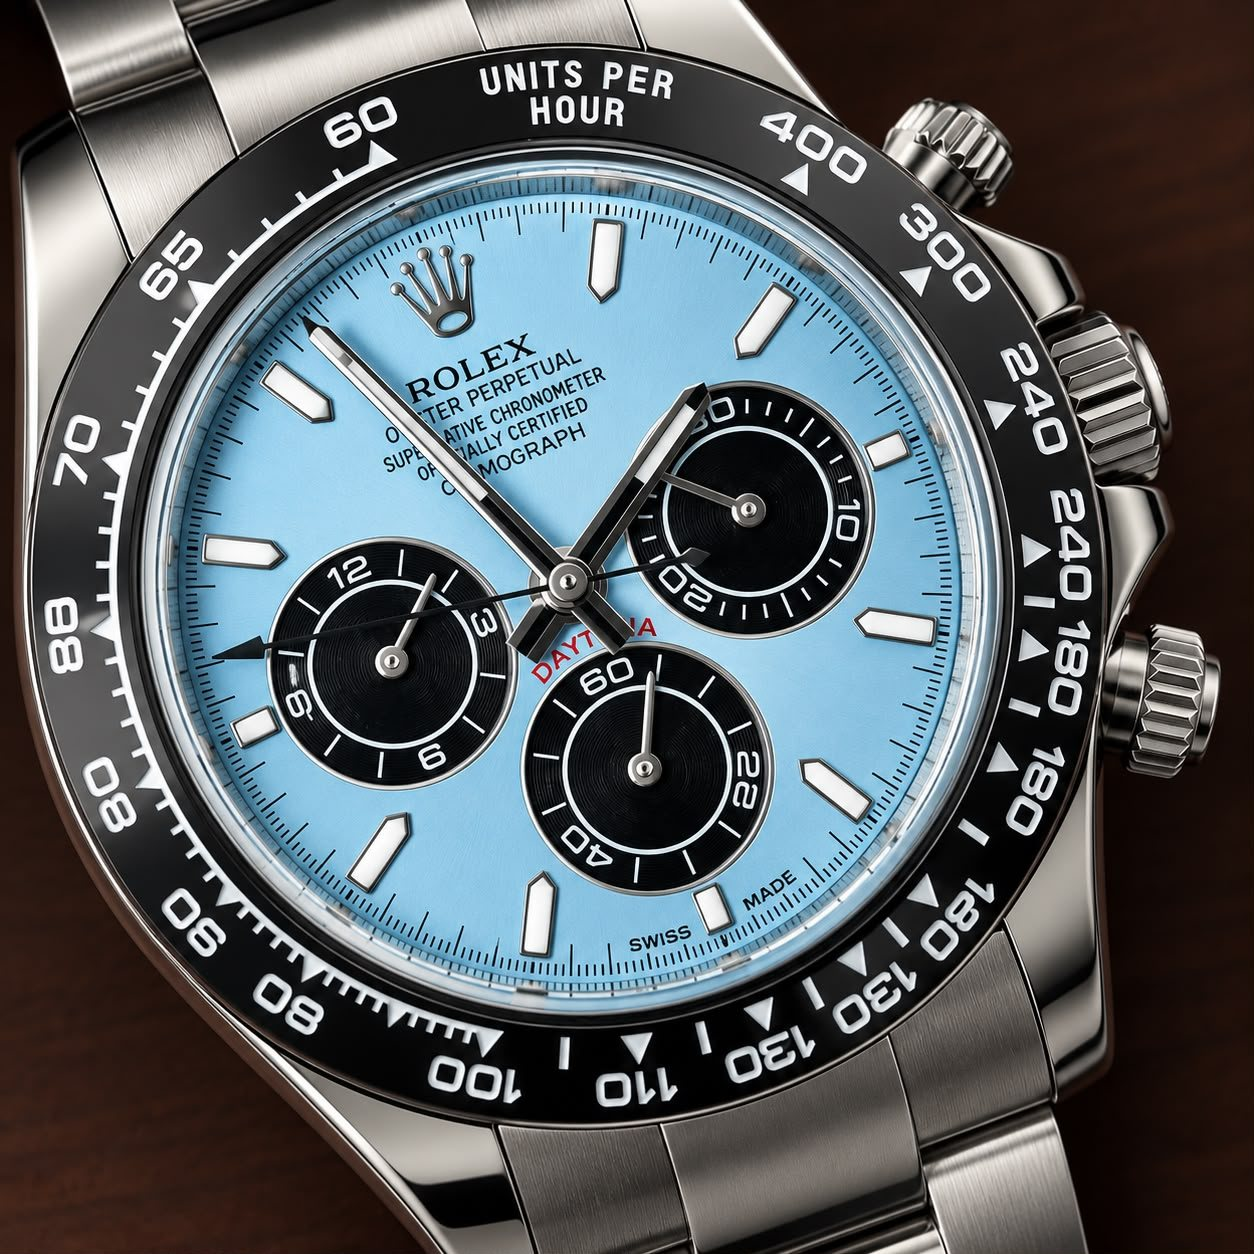
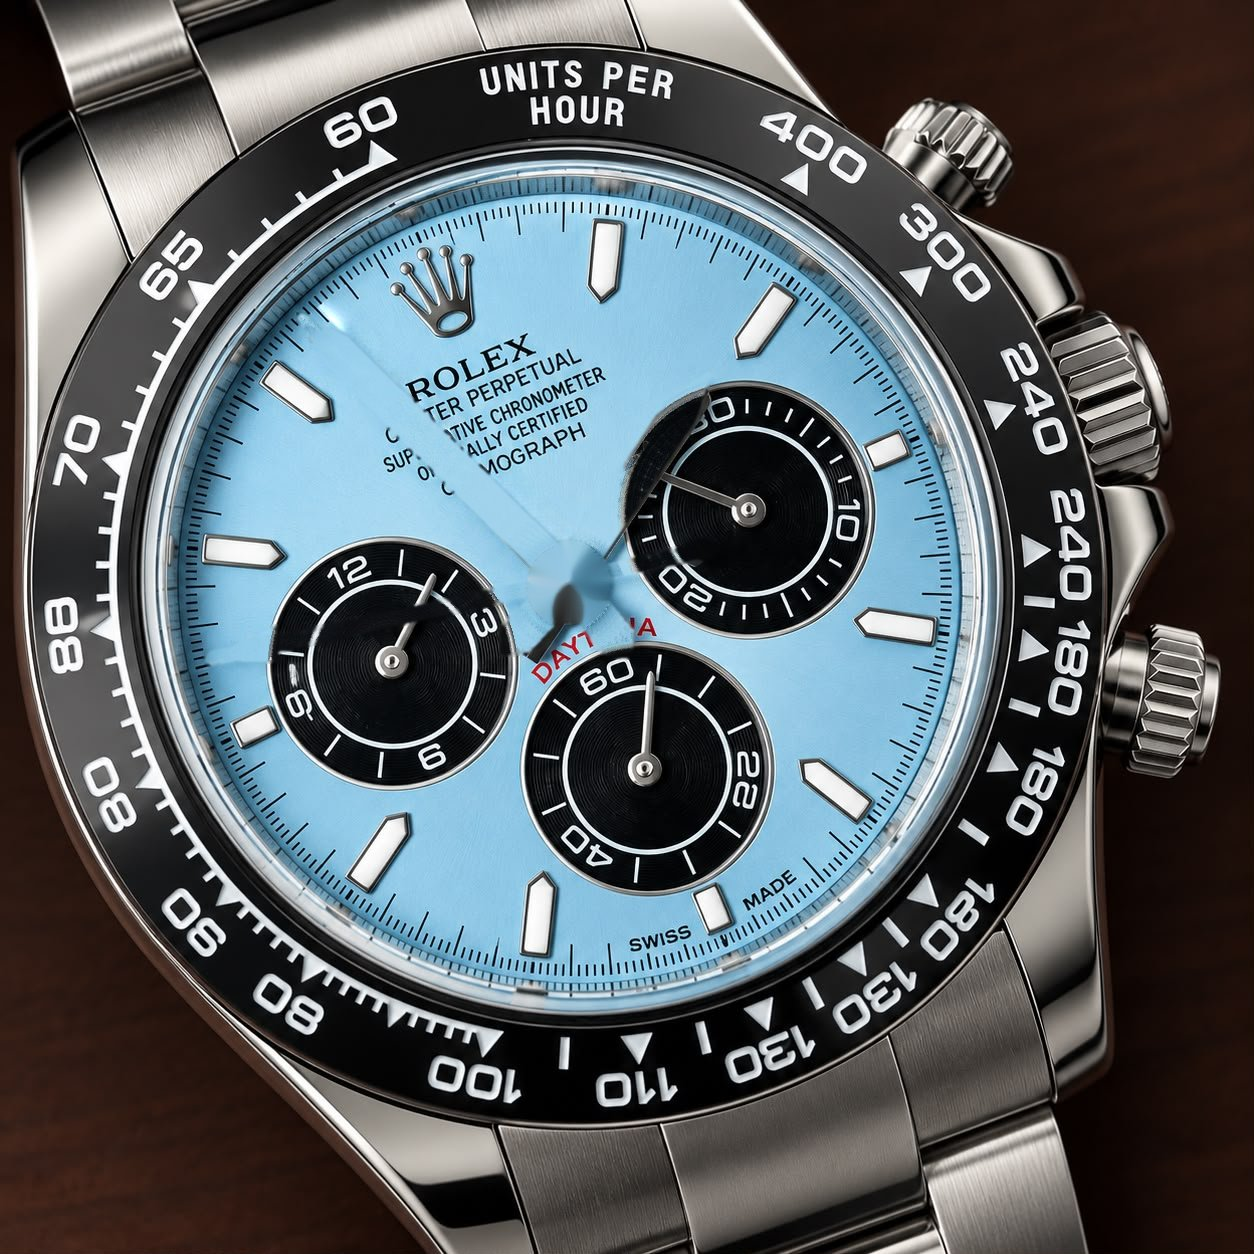
Watch band: moving Pakistan-time hands on the photo (printed hands removed)
The photo is an automatic retouch for now; a designer's hand-free version can replace
public/brand/feature-watch.jpg later. Hands restyled closer to the photo's.

Claude-Session: https://claude.ai/code/session_01GmWxsowQkqSJgYZSkiDU1Q

Changed region(s): [[0.2177, 0.2177, 0.5598, 0.5287], [0.1555, 0.4976, 0.2177, 0.5287], [0.311, 0.4665, 0.3421, 0.4976]]

diff --git a/src/components/FeaturedCollection.jsx b/src/components/FeaturedCollection.jsx
@@ -8,9 +8,11 @@ import './FeaturedCollection.css';
  * Hovering with a mouse tilts it gently towards the pointer, with light glinting across the glass.
  *
  * Moving hands (Pakistan time): the photo must be a version with its own hands removed.
- * When brand/feature-watch.jpg is that retouched photo, set PHOTO_HAS_NO_HANDS to true.
+ * The current file is an automatic retouch (small flaws in the dial writing up close); a designer's
+ * cleaner hand-free version can simply replace brand/feature-watch.jpg (same size and framing).
+ * With a photo that still has its printed hands, set PHOTO_HAS_NO_HANDS to false.
  */
-const PHOTO_HAS_NO_HANDS = false;
+const PHOTO_HAS_NO_HANDS = true;
 
 // Measured on the photo (1254 × 1254 pixels): where the hands turn, and how far the dial is turned.
 const PIVOT = { x: 569, y: 581 };
@@ -27,29 +29,29 @@ function PhotoHands() {
     <svg className="feature__hands" viewBox="0 0 1254 1254" aria-hidden="true" focusable="false">
       <defs>
         <linearGradient id="fh-steel" x1="0" y1="0" x2="1" y2="0">
-          <stop offset="0" stopColor="#23262a" />
-          <stop offset="0.5" stopColor="#a7adb3" />
-          <stop offset="1" stopColor="#23262a" />
+          <stop offset="0" stopColor="#16181b" />
+          <stop offset="0.5" stopColor="#8d939a" />
+          <stop offset="1" stopColor="#16181b" />
         </linearGradient>
         <radialGradient id="fh-cap" cx="0.4" cy="0.35" r="0.7">
           <stop offset="0" stopColor="#f4f5f6" />
           <stop offset="0.55" stopColor="#9aa0a6" />
           <stop offset="1" stopColor="#3b3f44" />
         </radialGradient>
-        {/* soft shadow down and to the left, like the light in the photo */}
+        {/* soft shadow up and to the right, like the light in the photo */}
         <filter id="fh-shadow" x="-50%" y="-50%" width="200%" height="200%">
-          <feDropShadow dx="-6" dy="7" stdDeviation="4" floodColor="#0b2233" floodOpacity="0.38" />
+          <feDropShadow dx="6" dy="-6" stdDeviation="5" floodColor="#0b2233" floodOpacity="0.4" />
         </filter>
       </defs>
       <g transform={`rotate(${DIAL_TURN} ${x} ${y})`} filter="url(#fh-shadow)">
         <g key={start}>
           <g className="feature__hand" style={handVars(start, 43200)}>
-            <path d={baton(240, 70, 26)} fill="url(#fh-steel)" />
-            <rect x={x - 6} y={y - 222} width="12" height="182" rx="3" fill="#f6f6f2" />
+            <path d={baton(240, 70, 30)} fill="url(#fh-steel)" />
+            <rect x={x - 7} y={y - 220} width="14" height="182" rx="3" fill="#f6f6f2" />
           </g>
           <g className="feature__hand" style={handVars(start, 3600)}>
-            <path d={baton(372, 70, 22)} fill="url(#fh-steel)" />
-            <rect x={x - 5} y={y - 356} width="10" height="314" rx="3" fill="#f6f6f2" />
+            <path d={baton(372, 70, 26)} fill="url(#fh-steel)" />
+            <rect x={x - 6} y={y - 352} width="12" height="310" rx="3" fill="#f6f6f2" />
           </g>
           <g className="feature__hand" style={handVars(start, 60)}>
             <rect x={x - 2} y={y - 300} width="4" height="430" fill="#15171a" />
@@ -57,8 +59,8 @@ function PhotoHands() {
             <rect x={x - 5} y={y + 108} width="10" height="26" rx="3" fill="#15171a" />
           </g>
         </g>
-        <circle cx={x} cy={y} r="22" fill="url(#fh-cap)" />
-        <circle cx={x} cy={y} r="7" fill="#5c6167" />
+        <circle cx={x} cy={y} r="28" fill="url(#fh-cap)" />
+        <circle cx={x} cy={y} r="9" fill="#5c6167" />
       </g>
     </svg>
   );
